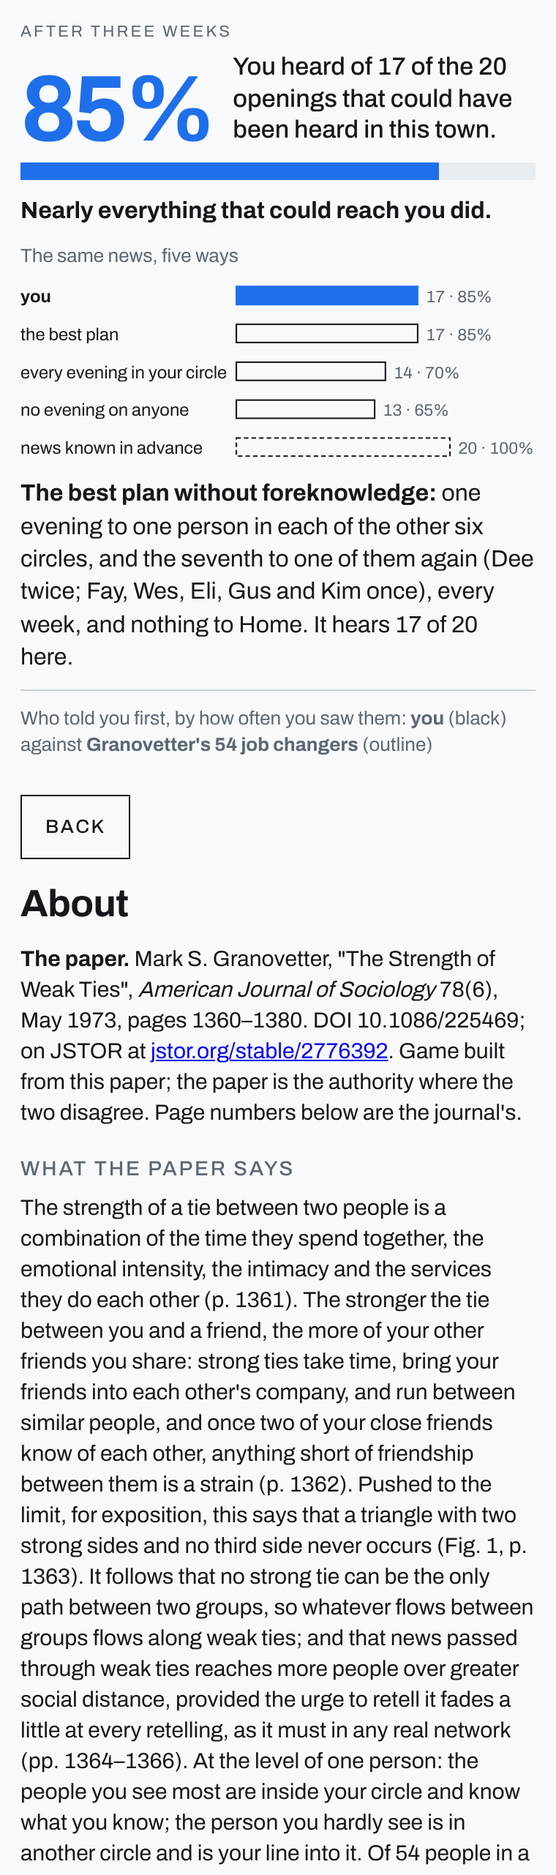
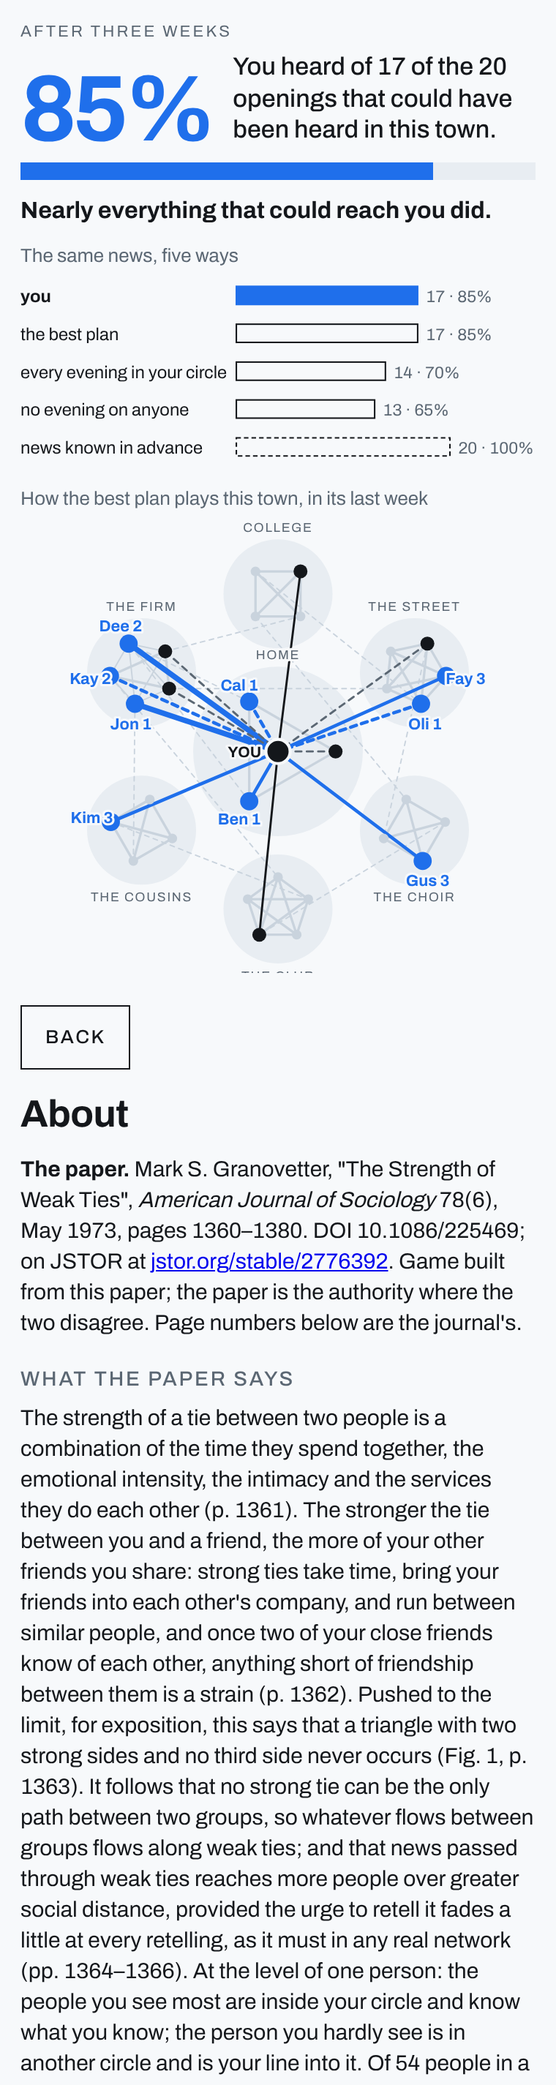
Granovetter's Dashed Line: the best plan drawn on the town's map; the two towns move to About
Claude-Session: https://claude.ai/code/session_018niUhwk29ymLrdm2yYAQnQ

Changed region(s): [[0.0303, 0.4372, 0.9684, 0.9992], [0.0303, 0.0, 0.9382, 0.4684], [0.3934, 0.0, 0.4237, 0.0312]]

diff --git a/weakties/granovetters-dashed-line.html b/weakties/granovetters-dashed-line.html
@@ -119,14 +119,14 @@ svg.map{display:block;width:100%;height:auto;background:var(--paper)}
   <p id="v-fate"></p>
   <p class="small" style="margin:0">The same news, five ways</p>
   <svg class="bars" id="v-bars0" viewBox="0 0 340 128"></svg>
+  <p class="small" style="margin:10px 0 0">How the best plan plays this town, in its last week</p>
+  <svg class="map" id="v-planmap" viewBox="0 0 340 316" aria-label="The best plan"></svg>
   <p id="v-plan"></p>
   <div class="rule thin"></div>
   <p class="small" style="margin:0">Who told you first, by how often you saw them: <b>you</b> (black) against <b>Granovetter's 54 job changers</b> (outline)</p>
   <svg class="bars" id="v-bars1" viewBox="0 0 340 96"></svg>
   <div class="part" id="v-part"></div>
-  <p id="v-paper"><b>The paper.</b> Your close friends move in your circle and hear what you hear. The person you hardly see is your only line into another circle, so that is where the news comes from; and a town whose circles have no lines between them is a town of islands.</p>
-  <svg id="v-westend" viewBox="0 0 340 112" width="100%" aria-hidden="true" style="display:block;margin:4px 0"></svg>
-  <p class="small">Boston, around 1960: the West End could not organise against the plan that demolished it; Charlestown, with its clubs and local jobs, fought the same city and won.</p>
+  <p id="v-paper"><b>The paper.</b> Your close friends move in your circle and hear what you hear. The person you hardly see is your only line into another circle, so that is where the news comes from.</p>
   <button class="btn solid" id="b-again">Play again, in a new town</button>
   <div class="row2"><button class="btn" id="b-replay">Replay this town</button><button class="btn" id="b-help-end">How to play</button><button class="btn" id="b-about-end">About</button></div>
   <div class="seedline" id="v-seed"></div>
@@ -149,7 +149,7 @@ svg.map{display:block;width:100%;height:auto;background:var(--paper)}
   <h2>The news</h2>
   <p>Seven openings a week, each first heard by one person, who turns blue. Whoever hears passes it on to each person they are tied to: on a thick line always, on a thin line usually (three times in four), on a dashed line sometimes (one in three), and a little less at every pair of hands it has passed through. The blue mark travels along the lines; where it stops short, that person did not mention it. You keep what you hear. The week's line tells you who told you, who told you the same thing again, and what never reached you.</p>
   <h2>The verdict</h2>
-  <p>Your score: the openings you heard of in three weeks as a share of what could have been heard on this town's news (the best three weeks we could find knowing the news in advance, or your own run if it did better), in three bands of blue. Then the same news five ways: you, the best plan without foreknowledge, your circle, nobody, and the news known in advance; who told you first, against the paper's own table; and the paper's two towns, the West End and Charlestown.</p>
+  <p>Your score: the openings you heard of in three weeks as a share of what could have been heard on this town's news (the best three weeks we could find knowing the news in advance, or your own run if it did better), in three bands of blue. Then the same news five ways: you, the best plan without foreknowledge, your circle, nobody, and the news known in advance; the best plan drawn on this town's map, with the lines its news came along; and who told you first, against the paper's own table.</p>
   <div class="close"><button class="btn" id="b-help-close2">Back</button></div>
 </div></div>
 
@@ -159,7 +159,7 @@ svg.map{display:block;width:100%;height:auto;background:var(--paper)}
   <h1>About</h1>
     <p><b>The paper.</b> Mark S. Granovetter, "The Strength of Weak Ties", <i>American Journal of Sociology</i> 78(6), May 1973, pages 1360–1380. DOI 10.1086/225469; on JSTOR at <a href="https://www.jstor.org/stable/2776392">jstor.org/stable/2776392</a>. Game built from this paper; the paper is the authority where the two disagree. Page numbers below are the journal's.</p>
   <h2>What the paper says</h2>
-  <p>The strength of a tie between two people is a combination of the time they spend together, the emotional intensity, the intimacy and the services they do each other (p. 1361). The stronger the tie between you and a friend, the more of your other friends you share: strong ties take time, bring your friends into each other's company, and run between similar people, and once two of your close friends know of each other, anything short of friendship between them is a strain (p. 1362). Pushed to the limit, for exposition, this says that a triangle with two strong sides and no third side never occurs (Fig. 1, p. 1363). It follows that no strong tie can be the only path between two groups, so whatever flows between groups flows along weak ties; and that news passed through weak ties reaches more people over greater social distance, provided the urge to retell it fades a little at every retelling, as it must in any real network (pp. 1364–1366). At the level of one person: the people you see most are inside your circle and know what you know; the person you hardly see is in another circle and is your line into it. Of 54 people in a Boston suburb who had found their job through a contact, 17 per cent saw the contact often, 56 per cent now and then, 28 per cent rarely, and in 84 per cent of 64 cases the news had come straight from the employer or through one intermediary (pp. 1371–1372). At the level of a community: a neighbourhood of close circles with no weak ties between them cannot organise, however warm the circles; the West End of Boston could not resist the renewal that demolished it (pp. 1373–1375).</p>
+  <p>The strength of a tie between two people is a combination of the time they spend together, the emotional intensity, the intimacy and the services they do each other (p. 1361). The stronger the tie between you and a friend, the more of your other friends you share: strong ties take time, bring your friends into each other's company, and run between similar people, and once two of your close friends know of each other, anything short of friendship between them is a strain (p. 1362). Pushed to the limit, for exposition, this says that a triangle with two strong sides and no third side never occurs (Fig. 1, p. 1363). It follows that no strong tie can be the only path between two groups, so whatever flows between groups flows along weak ties; and that news passed through weak ties reaches more people over greater social distance, provided the urge to retell it fades a little at every retelling, as it must in any real network (pp. 1364–1366). At the level of one person: the people you see most are inside your circle and know what you know; the person you hardly see is in another circle and is your line into it. Of 54 people in a Boston suburb who had found their job through a contact, 17 per cent saw the contact often, 56 per cent now and then, 28 per cent rarely, and in 84 per cent of 64 cases the news had come straight from the employer or through one intermediary (pp. 1371–1372). At the level of a community: a neighbourhood of close circles with no weak ties between them cannot organise, however warm the circles; the West End of Boston could not resist the renewal that demolished it, while Charlestown, its circles joined by clubs and local jobs, fought the same city and won (pp. 1373–1375).</p>
   <h2>What the game does with it</h2>
   <p>You are the job changer of the paper's survey, and your one control is the paper's one measured variable: how often you see each person. Seven evenings a week on the people you know; two evenings make a line "often", one "now and then", the survey's own categories; a line you give no evening thins by one step about one week in two and never vanishes, so a close friend costs evenings to keep, which is the paper's premise that strength is time. Once a week you run into someone by chance: usually someone new; sometimes someone you already know, and the old line comes back thick for the week, the paper's reactivated tie. The town reacts as the paper says it does: two people you see often come to know each other; a person you see often introduces you to their circle (the paper quotes Gans, who was drawn into his first contact's circle in the West End); and a chance meeting reactivates a tie once a week, as the paper's respondents reported. Then the week's news travels along the lines. The verdict scores your three weeks as a share of what could have been heard on this town's news (the best three weeks found with the news known in advance, or your own run if it did better), shows the same news five ways (you, the best plan without foreknowledge, your circle, nobody, the news known in advance), and reads who told you first against the paper's Boston table. The paper's second table, how many pairs of hands the news passed through (39 per cent straight from the employer, 45 through one intermediary, 13 through two, 3 through more), is in the calibration and not on the verdict: the toy reproduces its shape (five in six within one pair of hands) but not its middle.</p>
   <h2>Mechanism kind and claim boundaries</h2>
@@ -661,8 +661,8 @@ if (typeof module !== 'undefined') module.exports = { CONFIG: CONFIG, newGame: n
       { label: 'no evening on anyone', n: st },
       { label: 'news known in advance', n: ceil, dash: true }
     ], ceil);
-    var planEv = STRATEGIES[CONFIG.BEST_PLAN](newGame(G.seed)), two = Object.keys(planEv).filter(function (n) { return planEv[n] === 2; }), one = Object.keys(planEv).filter(function (n) { return planEv[n] === 1; });
-    $('v-plan').innerHTML = '<b>The best plan without foreknowledge:</b> one evening to one person in each of the other six circles, and the seventh to one of them again (' + (two.length ? list(two) + ' twice; ' : '') + list(one) + ' once), every week, and nothing to Home. It hears ' + sp + ' of ' + ceil + ' here.';
+    var planRun = runStrategy(G.seed, STRATEGIES[CONFIG.BEST_PLAN]), across = planMap(planRun), mine = acrossCount(G);
+    $('v-plan').innerHTML = '<b>Every dashed line you started with was a door into another circle.</b> The best plan keeps each door open with one evening a week and gives Home nothing: your friends hear what you hear. Blue: who told it first, and how often. <b>' + across + ' of its ' + sp + '</b> openings came through those doors; <b>' + mine + ' of your ' + heard + '</b> did.';
     var sh = { often: pct(t.seen.often, heard), occ: pct(t.seen.occ, heard), rare: pct(t.seen.rare, heard) }, B = CONFIG.BOSTON_SEEN;
     bars('v-bars1', [
       { label: 'saw them often', you: sh.often, paper: B.often, note: Math.round(sh.often) + '% · paper ' + Math.round(B.often) + '%' },
@@ -676,26 +676,31 @@ if (typeof module !== 'undefined') module.exports = { CONFIG: CONFIG, newGame: n
     else if (sh.rare >= 50) part = '<b>Most of your news came from people you hardly saw.</b> They had it, and mentioned it one time in three. In Boston they brought more than a quarter of the jobs.';
     else part = '<b>Your news came from everywhere</b>, in about Boston\'s proportions.';
     $('v-part').innerHTML = part;
-    westEnd();
     $('v-seed').textContent = 'Town ' + G.seed;
     show('s-end');
   }
-  function westEnd() {
-    var svg = $('v-westend'); while (svg.firstChild) svg.removeChild(svg.firstChild);
-    [{ x0: 4, name: 'THE WEST END', joined: false }, { x0: 176, name: 'CHARLESTOWN', joined: true }].forEach(function (town) {
-      var cs = [town.x0 + 28, town.x0 + 80, town.x0 + 132], pts = [];
-      cs.forEach(function (cx, ci) {
-        el('circle', { cx: cx, cy: 44, r: 25, fill: FROST2 }, svg);
-        var ring = []; for (var i = 0; i < 5; i++) { var a = -Math.PI / 2 + i * 2 * Math.PI / 5; ring.push([cx + 15 * Math.cos(a), 44 + 15 * Math.sin(a)]); }
-        for (var i2 = 0; i2 < 5; i2++) for (var j = i2 + 1; j < 5; j++) el('line', { x1: ring[i2][0], y1: ring[i2][1], x2: ring[j][0], y2: ring[j][1], stroke: FROST, 'stroke-width': 1.2 }, svg);
-        var lit = town.joined || ci === 0;
-        ring.forEach(function (p) { el('circle', { cx: p[0], cy: p[1], r: 3.6, fill: lit ? BLUE : INK }, svg); });
-        pts.push(ring);
-      });
-      if (town.joined) { el('line', { x1: pts[0][1][0], y1: pts[0][1][1], x2: pts[1][4][0], y2: pts[1][4][1], stroke: SLATE, 'stroke-width': 1.2, 'stroke-dasharray': '3 3' }, svg); el('line', { x1: pts[1][1][0], y1: pts[1][1][1], x2: pts[2][4][0], y2: pts[2][4][1], stroke: SLATE, 'stroke-width': 1.2, 'stroke-dasharray': '3 3' }, svg); }
-      el('text', { x: town.x0 + 80, y: 88, 'text-anchor': 'middle', 'font-size': 9, fill: SLATE, 'letter-spacing': '0.1em', 'font-family': 'Archivo,Helvetica,Arial' }, svg).textContent = town.name;
-      el('text', { x: town.x0 + 80, y: 104, 'text-anchor': 'middle', 'font-size': 10.5, fill: INK, 'font-family': 'Archivo,Helvetica,Arial' }, svg).textContent = town.joined ? 'dashed lines: the leaflet crosses' : 'no lines between: it stops';
+  function acrossCount(run) { var n = 0; run.weeks.forEach(function (w) { w.pieces.forEach(function (p) { if (p.heard && circleOf(p.first.who) !== 'home') n++; }); }); return n; }
+  function planMap(run) { // the best plan's last week on this town's map: the town in grey, your lines in ink, blue where news first reached you
+    var svg = $('v-planmap'); while (svg.firstChild) svg.removeChild(svg.firstChild);
+    var last = run.weeks[run.weeks.length - 1], ties = last.ties, firsts = {};
+    run.weeks.forEach(function (w) { w.pieces.forEach(function (p) { if (p.heard) firsts[p.first.who] = (firsts[p.first.who] || 0) + 1; }); });
+    var g = { halo: el('g', {}, svg), town: el('g', {}, svg), ego: el('g', {}, svg), dots: el('g', {}, svg), labels: el('g', {}, svg) };
+    CONFIG.CIRCLES.forEach(function (c) {
+      var cc = circleCentre[c.id]; el('circle', { cx: cc[0], cy: cc[1], r: c.id === 'home' ? HOMEHALO : HALO, fill: FROST2 }, g.halo);
+      var up = cc[1] <= CY, ly = c.id === 'home' ? cc[1] - HOMEHALO - 5 : (up ? cc[1] - HALO - 5 : cc[1] + HALO + 11);
+      cased(el('text', { x: cc[0], y: ly, 'text-anchor': 'middle', 'font-size': 8.5, fill: SLATE, 'letter-spacing': '0.1em', 'font-family': 'Archivo,Helvetica,Arial' }, g.labels)).textContent = c.label.toUpperCase();
     });
+    for (var k in ties) {
+      var ab = k.split('~'), mineK = ab[0] === CONFIG.YOU || ab[1] === CONFIG.YOU, other = ab[0] === CONFIG.YOU ? ab[1] : ab[1] === CONFIG.YOU ? ab[0] : null, cat = ties[k], a = pos[ab[0]], b = pos[ab[1]];
+      if (!a || !b) continue;
+      var blue = mineK && firsts[other], w = mineK ? (cat === 'often' ? 3.6 : 1.4) : (cat === 'often' ? 1.6 : 0.9);
+      el('line', { x1: a[0], y1: a[1], x2: b[0], y2: b[1], 'stroke-linecap': 'round', stroke: blue ? BLUE : (mineK ? (cat === 'rare' ? SLATE : INK) : FROST), 'stroke-width': blue ? Math.max(w, 2.2) : w, 'stroke-dasharray': cat === 'rare' ? (mineK ? '4 3.5' : '3 3') : 'none' }, mineK ? g.ego : g.town);
+    }
+    everyone().forEach(function (p) { var known = run.known.indexOf(p) >= 0; el('circle', { cx: pos[p][0], cy: pos[p][1], r: firsts[p] ? 6 : (known ? 4.6 : 3.2), fill: firsts[p] ? BLUE : (known ? INK : FROST) }, g.dots);
+      if (firsts[p]) { var o = labelOffset(p); cased(el('text', { x: o[0], y: o[1], 'text-anchor': 'middle', 'font-size': 10.5, 'font-weight': 700, fill: BLUE, 'font-family': 'Archivo,Helvetica,Arial' }, g.labels)).textContent = p + ' ' + firsts[p]; } });
+    el('circle', { cx: CX, cy: CY, r: 8, fill: INK, stroke: PAPER, 'stroke-width': 2 }, g.dots);
+    cased(el('text', { x: CX - 11, y: CY + 4, 'text-anchor': 'end', 'font-size': 10, 'font-weight': 700, fill: INK, 'font-family': 'Archivo,Helvetica,Arial' }, g.labels)).textContent = 'YOU';
+    return acrossCount(run);
   }
 
   // ---------- wiring ----------

diff --git a/weakties/template.html b/weakties/template.html
@@ -119,14 +119,14 @@ svg.map{display:block;width:100%;height:auto;background:var(--paper)}
   <p id="v-fate"></p>
   <p class="small" style="margin:0">The same news, five ways</p>
   <svg class="bars" id="v-bars0" viewBox="0 0 340 128"></svg>
+  <p class="small" style="margin:10px 0 0">How the best plan plays this town, in its last week</p>
+  <svg class="map" id="v-planmap" viewBox="0 0 340 316" aria-label="The best plan"></svg>
   <p id="v-plan"></p>
   <div class="rule thin"></div>
   <p class="small" style="margin:0">Who told you first, by how often you saw them: <b>you</b> (black) against <b>Granovetter's 54 job changers</b> (outline)</p>
   <svg class="bars" id="v-bars1" viewBox="0 0 340 96"></svg>
   <div class="part" id="v-part"></div>
-  <p id="v-paper"><b>The paper.</b> Your close friends move in your circle and hear what you hear. The person you hardly see is your only line into another circle, so that is where the news comes from; and a town whose circles have no lines between them is a town of islands.</p>
-  <svg id="v-westend" viewBox="0 0 340 112" width="100%" aria-hidden="true" style="display:block;margin:4px 0"></svg>
-  <p class="small">Boston, around 1960: the West End could not organise against the plan that demolished it; Charlestown, with its clubs and local jobs, fought the same city and won.</p>
+  <p id="v-paper"><b>The paper.</b> Your close friends move in your circle and hear what you hear. The person you hardly see is your only line into another circle, so that is where the news comes from.</p>
   <button class="btn solid" id="b-again">Play again, in a new town</button>
   <div class="row2"><button class="btn" id="b-replay">Replay this town</button><button class="btn" id="b-help-end">How to play</button><button class="btn" id="b-about-end">About</button></div>
   <div class="seedline" id="v-seed"></div>
@@ -149,7 +149,7 @@ svg.map{display:block;width:100%;height:auto;background:var(--paper)}
   <h2>The news</h2>
   <p>Seven openings a week, each first heard by one person, who turns blue. Whoever hears passes it on to each person they are tied to: on a thick line always, on a thin line usually (three times in four), on a dashed line sometimes (one in three), and a little less at every pair of hands it has passed through. The blue mark travels along the lines; where it stops short, that person did not mention it. You keep what you hear. The week's line tells you who told you, who told you the same thing again, and what never reached you.</p>
   <h2>The verdict</h2>
-  <p>Your score: the openings you heard of in three weeks as a share of what could have been heard on this town's news (the best three weeks we could find knowing the news in advance, or your own run if it did better), in three bands of blue. Then the same news five ways: you, the best plan without foreknowledge, your circle, nobody, and the news known in advance; who told you first, against the paper's own table; and the paper's two towns, the West End and Charlestown.</p>
+  <p>Your score: the openings you heard of in three weeks as a share of what could have been heard on this town's news (the best three weeks we could find knowing the news in advance, or your own run if it did better), in three bands of blue. Then the same news five ways: you, the best plan without foreknowledge, your circle, nobody, and the news known in advance; the best plan drawn on this town's map, with the lines its news came along; and who told you first, against the paper's own table.</p>
   <div class="close"><button class="btn" id="b-help-close2">Back</button></div>
 </div></div>
 
@@ -373,8 +373,8 @@ svg.map{display:block;width:100%;height:auto;background:var(--paper)}
       { label: 'no evening on anyone', n: st },
       { label: 'news known in advance', n: ceil, dash: true }
     ], ceil);
-    var planEv = STRATEGIES[CONFIG.BEST_PLAN](newGame(G.seed)), two = Object.keys(planEv).filter(function (n) { return planEv[n] === 2; }), one = Object.keys(planEv).filter(function (n) { return planEv[n] === 1; });
-    $('v-plan').innerHTML = '<b>The best plan without foreknowledge:</b> one evening to one person in each of the other six circles, and the seventh to one of them again (' + (two.length ? list(two) + ' twice; ' : '') + list(one) + ' once), every week, and nothing to Home. It hears ' + sp + ' of ' + ceil + ' here.';
+    var planRun = runStrategy(G.seed, STRATEGIES[CONFIG.BEST_PLAN]), across = planMap(planRun), mine = acrossCount(G);
+    $('v-plan').innerHTML = '<b>Every dashed line you started with was a door into another circle.</b> The best plan keeps each door open with one evening a week and gives Home nothing: your friends hear what you hear. Blue: who told it first, and how often. <b>' + across + ' of its ' + sp + '</b> openings came through those doors; <b>' + mine + ' of your ' + heard + '</b> did.';
     var sh = { often: pct(t.seen.often, heard), occ: pct(t.seen.occ, heard), rare: pct(t.seen.rare, heard) }, B = CONFIG.BOSTON_SEEN;
     bars('v-bars1', [
       { label: 'saw them often', you: sh.often, paper: B.often, note: Math.round(sh.often) + '% · paper ' + Math.round(B.often) + '%' },
@@ -388,26 +388,31 @@ svg.map{display:block;width:100%;height:auto;background:var(--paper)}
     else if (sh.rare >= 50) part = '<b>Most of your news came from people you hardly saw.</b> They had it, and mentioned it one time in three. In Boston they brought more than a quarter of the jobs.';
     else part = '<b>Your news came from everywhere</b>, in about Boston\'s proportions.';
     $('v-part').innerHTML = part;
-    westEnd();
     $('v-seed').textContent = 'Town ' + G.seed;
     show('s-end');
   }
-  function westEnd() {
-    var svg = $('v-westend'); while (svg.firstChild) svg.removeChild(svg.firstChild);
-    [{ x0: 4, name: 'THE WEST END', joined: false }, { x0: 176, name: 'CHARLESTOWN', joined: true }].forEach(function (town) {
-      var cs = [town.x0 + 28, town.x0 + 80, town.x0 + 132], pts = [];
-      cs.forEach(function (cx, ci) {
-        el('circle', { cx: cx, cy: 44, r: 25, fill: FROST2 }, svg);
-        var ring = []; for (var i = 0; i < 5; i++) { var a = -Math.PI / 2 + i * 2 * Math.PI / 5; ring.push([cx + 15 * Math.cos(a), 44 + 15 * Math.sin(a)]); }
-        for (var i2 = 0; i2 < 5; i2++) for (var j = i2 + 1; j < 5; j++) el('line', { x1: ring[i2][0], y1: ring[i2][1], x2: ring[j][0], y2: ring[j][1], stroke: FROST, 'stroke-width': 1.2 }, svg);
-        var lit = town.joined || ci === 0;
-        ring.forEach(function (p) { el('circle', { cx: p[0], cy: p[1], r: 3.6, fill: lit ? BLUE : INK }, svg); });
-        pts.push(ring);
-      });
-      if (town.joined) { el('line', { x1: pts[0][1][0], y1: pts[0][1][1], x2: pts[1][4][0], y2: pts[1][4][1], stroke: SLATE, 'stroke-width': 1.2, 'stroke-dasharray': '3 3' }, svg); el('line', { x1: pts[1][1][0], y1: pts[1][1][1], x2: pts[2][4][0], y2: pts[2][4][1], stroke: SLATE, 'stroke-width': 1.2, 'stroke-dasharray': '3 3' }, svg); }
-      el('text', { x: town.x0 + 80, y: 88, 'text-anchor': 'middle', 'font-size': 9, fill: SLATE, 'letter-spacing': '0.1em', 'font-family': 'Archivo,Helvetica,Arial' }, svg).textContent = town.name;
-      el('text', { x: town.x0 + 80, y: 104, 'text-anchor': 'middle', 'font-size': 10.5, fill: INK, 'font-family': 'Archivo,Helvetica,Arial' }, svg).textContent = town.joined ? 'dashed lines: the leaflet crosses' : 'no lines between: it stops';
+  function acrossCount(run) { var n = 0; run.weeks.forEach(function (w) { w.pieces.forEach(function (p) { if (p.heard && circleOf(p.first.who) !== 'home') n++; }); }); return n; }
+  function planMap(run) { // the best plan's last week on this town's map: the town in grey, your lines in ink, blue where news first reached you
+    var svg = $('v-planmap'); while (svg.firstChild) svg.removeChild(svg.firstChild);
+    var last = run.weeks[run.weeks.length - 1], ties = last.ties, firsts = {};
+    run.weeks.forEach(function (w) { w.pieces.forEach(function (p) { if (p.heard) firsts[p.first.who] = (firsts[p.first.who] || 0) + 1; }); });
+    var g = { halo: el('g', {}, svg), town: el('g', {}, svg), ego: el('g', {}, svg), dots: el('g', {}, svg), labels: el('g', {}, svg) };
+    CONFIG.CIRCLES.forEach(function (c) {
+      var cc = circleCentre[c.id]; el('circle', { cx: cc[0], cy: cc[1], r: c.id === 'home' ? HOMEHALO : HALO, fill: FROST2 }, g.halo);
+      var up = cc[1] <= CY, ly = c.id === 'home' ? cc[1] - HOMEHALO - 5 : (up ? cc[1] - HALO - 5 : cc[1] + HALO + 11);
+      cased(el('text', { x: cc[0], y: ly, 'text-anchor': 'middle', 'font-size': 8.5, fill: SLATE, 'letter-spacing': '0.1em', 'font-family': 'Archivo,Helvetica,Arial' }, g.labels)).textContent = c.label.toUpperCase();
     });
+    for (var k in ties) {
+      var ab = k.split('~'), mineK = ab[0] === CONFIG.YOU || ab[1] === CONFIG.YOU, other = ab[0] === CONFIG.YOU ? ab[1] : ab[1] === CONFIG.YOU ? ab[0] : null, cat = ties[k], a = pos[ab[0]], b = pos[ab[1]];
+      if (!a || !b) continue;
+      var blue = mineK && firsts[other], w = mineK ? (cat === 'often' ? 3.6 : 1.4) : (cat === 'often' ? 1.6 : 0.9);
+      el('line', { x1: a[0], y1: a[1], x2: b[0], y2: b[1], 'stroke-linecap': 'round', stroke: blue ? BLUE : (mineK ? (cat === 'rare' ? SLATE : INK) : FROST), 'stroke-width': blue ? Math.max(w, 2.2) : w, 'stroke-dasharray': cat === 'rare' ? (mineK ? '4 3.5' : '3 3') : 'none' }, mineK ? g.ego : g.town);
+    }
+    everyone().forEach(function (p) { var known = run.known.indexOf(p) >= 0; el('circle', { cx: pos[p][0], cy: pos[p][1], r: firsts[p] ? 6 : (known ? 4.6 : 3.2), fill: firsts[p] ? BLUE : (known ? INK : FROST) }, g.dots);
+      if (firsts[p]) { var o = labelOffset(p); cased(el('text', { x: o[0], y: o[1], 'text-anchor': 'middle', 'font-size': 10.5, 'font-weight': 700, fill: BLUE, 'font-family': 'Archivo,Helvetica,Arial' }, g.labels)).textContent = p + ' ' + firsts[p]; } });
+    el('circle', { cx: CX, cy: CY, r: 8, fill: INK, stroke: PAPER, 'stroke-width': 2 }, g.dots);
+    cased(el('text', { x: CX - 11, y: CY + 4, 'text-anchor': 'end', 'font-size': 10, 'font-weight': 700, fill: INK, 'font-family': 'Archivo,Helvetica,Arial' }, g.labels)).textContent = 'YOU';
+    return acrossCount(run);
   }
 
   // ---------- wiring ----------

diff --git a/weakties/about.html b/weakties/about.html
@@ -1,6 +1,6 @@
   <p><b>The paper.</b> Mark S. Granovetter, "The Strength of Weak Ties", <i>American Journal of Sociology</i> 78(6), May 1973, pages 1360–1380. DOI 10.1086/225469; on JSTOR at <a href="https://www.jstor.org/stable/2776392">jstor.org/stable/2776392</a>. Game built from this paper; the paper is the authority where the two disagree. Page numbers below are the journal's.</p>
   <h2>What the paper says</h2>
-  <p>The strength of a tie between two people is a combination of the time they spend together, the emotional intensity, the intimacy and the services they do each other (p. 1361). The stronger the tie between you and a friend, the more of your other friends you share: strong ties take time, bring your friends into each other's company, and run between similar people, and once two of your close friends know of each other, anything short of friendship between them is a strain (p. 1362). Pushed to the limit, for exposition, this says that a triangle with two strong sides and no third side never occurs (Fig. 1, p. 1363). It follows that no strong tie can be the only path between two groups, so whatever flows between groups flows along weak ties; and that news passed through weak ties reaches more people over greater social distance, provided the urge to retell it fades a little at every retelling, as it must in any real network (pp. 1364–1366). At the level of one person: the people you see most are inside your circle and know what you know; the person you hardly see is in another circle and is your line into it. Of 54 people in a Boston suburb who had found their job through a contact, 17 per cent saw the contact often, 56 per cent now and then, 28 per cent rarely, and in 84 per cent of 64 cases the news had come straight from the employer or through one intermediary (pp. 1371–1372). At the level of a community: a neighbourhood of close circles with no weak ties between them cannot organise, however warm the circles; the West End of Boston could not resist the renewal that demolished it (pp. 1373–1375).</p>
+  <p>The strength of a tie between two people is a combination of the time they spend together, the emotional intensity, the intimacy and the services they do each other (p. 1361). The stronger the tie between you and a friend, the more of your other friends you share: strong ties take time, bring your friends into each other's company, and run between similar people, and once two of your close friends know of each other, anything short of friendship between them is a strain (p. 1362). Pushed to the limit, for exposition, this says that a triangle with two strong sides and no third side never occurs (Fig. 1, p. 1363). It follows that no strong tie can be the only path between two groups, so whatever flows between groups flows along weak ties; and that news passed through weak ties reaches more people over greater social distance, provided the urge to retell it fades a little at every retelling, as it must in any real network (pp. 1364–1366). At the level of one person: the people you see most are inside your circle and know what you know; the person you hardly see is in another circle and is your line into it. Of 54 people in a Boston suburb who had found their job through a contact, 17 per cent saw the contact often, 56 per cent now and then, 28 per cent rarely, and in 84 per cent of 64 cases the news had come straight from the employer or through one intermediary (pp. 1371–1372). At the level of a community: a neighbourhood of close circles with no weak ties between them cannot organise, however warm the circles; the West End of Boston could not resist the renewal that demolished it, while Charlestown, its circles joined by clubs and local jobs, fought the same city and won (pp. 1373–1375).</p>
   <h2>What the game does with it</h2>
   <p>You are the job changer of the paper's survey, and your one control is the paper's one measured variable: how often you see each person. Seven evenings a week on the people you know; two evenings make a line "often", one "now and then", the survey's own categories; a line you give no evening thins by one step about one week in two and never vanishes, so a close friend costs evenings to keep, which is the paper's premise that strength is time. Once a week you run into someone by chance: usually someone new; sometimes someone you already know, and the old line comes back thick for the week, the paper's reactivated tie. The town reacts as the paper says it does: two people you see often come to know each other; a person you see often introduces you to their circle (the paper quotes Gans, who was drawn into his first contact's circle in the West End); and a chance meeting reactivates a tie once a week, as the paper's respondents reported. Then the week's news travels along the lines. The verdict scores your three weeks as a share of what could have been heard on this town's news (the best three weeks found with the news known in advance, or your own run if it did better), shows the same news five ways (you, the best plan without foreknowledge, your circle, nobody, the news known in advance), and reads who told you first against the paper's Boston table. The paper's second table, how many pairs of hands the news passed through (39 per cent straight from the employer, 45 through one intermediary, 13 through two, 3 through more), is in the calibration and not on the verdict: the toy reproduces its shape (five in six within one pair of hands) but not its middle.</p>
   <h2>Mechanism kind and claim boundaries</h2>

diff --git a/weakties/memo.md b/weakties/memo.md
@@ -157,3 +157,5 @@ The first table, before the town was widened, had five circles and a start list 
 **Revision 5 (27 November 2026): the coin, and the old friend at the wedding.** The author: does a thick line really thin after one week; make it stochastic; and perhaps let links change on noise as well as choice, an event that bonds you to someone far away. Agreed in discussion and built: **an untended line thins on a coin**, about one week in two (P_THIN 0.5, ours; the paper gives the direction, strength is time, and not the rate); the week's first event names who thinned and who held, and says it is a coin. **The chance meeting is sometimes with someone you know** (P_REVIVE 0.33, ours): the old line comes back thick for that week, "at a wedding", which is the paper's reactivated tie (p. 1372) and the author's sudden bond, in the paper's register; no destructive events, since the paper's movers create bridges rather than cut them, and thinning is the downside already. The coins are fixed by seed, week and name, so the ceiling and the ghosts meet the same luck as the player. **The best plan moved**, as foreseen: with Home thinning only half the time, the plan that gives one evening to one person in each of the six other circles and the seventh to one of them again (one thick bridge, nothing to Home) hears 17.5 of 21 against one-per-circle-with-Ann's 16.9, so it is the named plan now (`sixAndOne`), written out on the verdict with its reason, and checked against the family (check 10). Table: circle 11.4, loyal 12.4, one per circle 16.8, strong bridges 16.2, stay in 11.2, hindsight 20.3 of 21; reference week 20 / 50 / 29 against Boston's 17 / 56 / 28. New checks: the thinning share and the reactivation share over 300 random games, and that a revived line is thick that week.
 
 **Revision 5a (27 November 2026).** The author: the verdict's "where you part" paragraph was opaque ("the motivation the paper weighs against structure"); trim the whole verdict, not bound by the memo's structure. Done: the fate is one line; the plan is one sentence with the names; the Boston chart keeps one plain sentence on where the news came from (close friends who tell you the same things; people seen now and then, as in Boston; people hardly seen, who mention it one time in three; or everywhere); the paper in two sentences; the two towns with one line of history. A reference to an element the earlier trim had already removed made the verdict fail to open in the build before this one; the session test caught it.
+
+**Revision (27 November 2026): the best plan drawn, the two towns moved to About.** The author: is Charlestown vs Boston a distraction in the debrief; show how optimal play would have looked, emphasising the dashed lines, to make the final lesson more succinct. Done: the West End and Charlestown pictures and caption leave the verdict; that story stays in About, where the West End sentence now also carries Charlestown (pp. 1373–1375). The written-out best plan is replaced by the best plan drawn on this town's own map in its last week: the town's lines in grey, the plan's lines in ink, and in blue every line along which news first reached it, with the person's count. The caption reads the picture: every dashed line you started with was a door into another circle; the best plan keeps each open with one evening a week and gives Home nothing; N of its M openings came through those doors, against the player's own count. The verdict is now: score, five bars, the plan's map, the Boston table, the paper in two sentences. Interface only: no change to `mechanism.js`; calibration passes; session (seed 4821) 85 per cent, 17 of 20; the best plan's 17 include 15 through the doors, as do the player's; no errors.

diff --git a/weakties/row.md b/weakties/row.md
@@ -1,1 +1,1 @@
-| **Granovetter's Dashed Line** | Granovetter (1973), "The Strength of Weak Ties", *American Journal of Sociology* 78(6):1360–1380. The people you see most know what you know; the person you hardly see is your only line into another circle. A Swiss grid in winter, white, ink and one cold blue: a town of seven circles drawn in the paper's own code, solid lines for strong ties and dashed for weak. You are looking for a job and have seven evenings a week for the people you know: your three friends at Home and eight people you once knew, one or two in every other circle. Tap a name for one evening (a thin line, now and then), again for two (thick, often); a line you give nothing thins by one step about one week in two, and never vanishes. The town reacts: two people you see often come to know each other, a person you see often introduces you to their circle and sees it less, and once a week you run into someone by chance, sometimes an old friend whose line comes back thick. Then seven openings travel as blue marks along the lines, always on a thick one, usually on a thin one, sometimes on a dashed one, less at every pair of hands, and stop short where someone did not mention it. Your friends tell you the same thing three times; the dashed line brings the news from elsewhere. Three weeks. A score in blue, what you heard as a share of what could have been heard on this town's news; the same news five ways (you, the best plan, your circle, nobody, the news known in advance); who told you first against the paper's Boston table; and the West End beside Charlestown, one town without dashed lines and one with. | [play](https://steffenhuck.github.io/paper-to-game/weakties/granovetters-dashed-line.html) · [memo](weakties/memo.md) |
+| **Granovetter's Dashed Line** | Granovetter (1973), "The Strength of Weak Ties", *American Journal of Sociology* 78(6):1360–1380. The people you see most know what you know; the person you hardly see is your only line into another circle. A Swiss grid in winter, white, ink and one cold blue: a town of seven circles drawn in the paper's own code, solid lines for strong ties and dashed for weak. You are looking for a job and have seven evenings a week for the people you know: your three friends at Home and eight people you once knew, one or two in every other circle. Tap a name for one evening (a thin line, now and then), again for two (thick, often); a line you give nothing thins by one step about one week in two, and never vanishes. The town reacts: two people you see often come to know each other, a person you see often introduces you to their circle and sees it less, and once a week you run into someone by chance, sometimes an old friend whose line comes back thick. Then seven openings travel as blue marks along the lines, always on a thick one, usually on a thin one, sometimes on a dashed one, less at every pair of hands, and stop short where someone did not mention it. Your friends tell you the same thing three times; the dashed line brings the news from elsewhere. Three weeks. A score in blue, what you heard as a share of what could have been heard on this town's news; the same news five ways (you, the best plan, your circle, nobody, the news known in advance); who told you first against the paper's Boston table; the best plan drawn on this town's map, blue on the lines its news came along, nearly all of them the dashed lines you started with. | [play](https://steffenhuck.github.io/paper-to-game/weakties/granovetters-dashed-line.html) · [memo](weakties/memo.md) |
